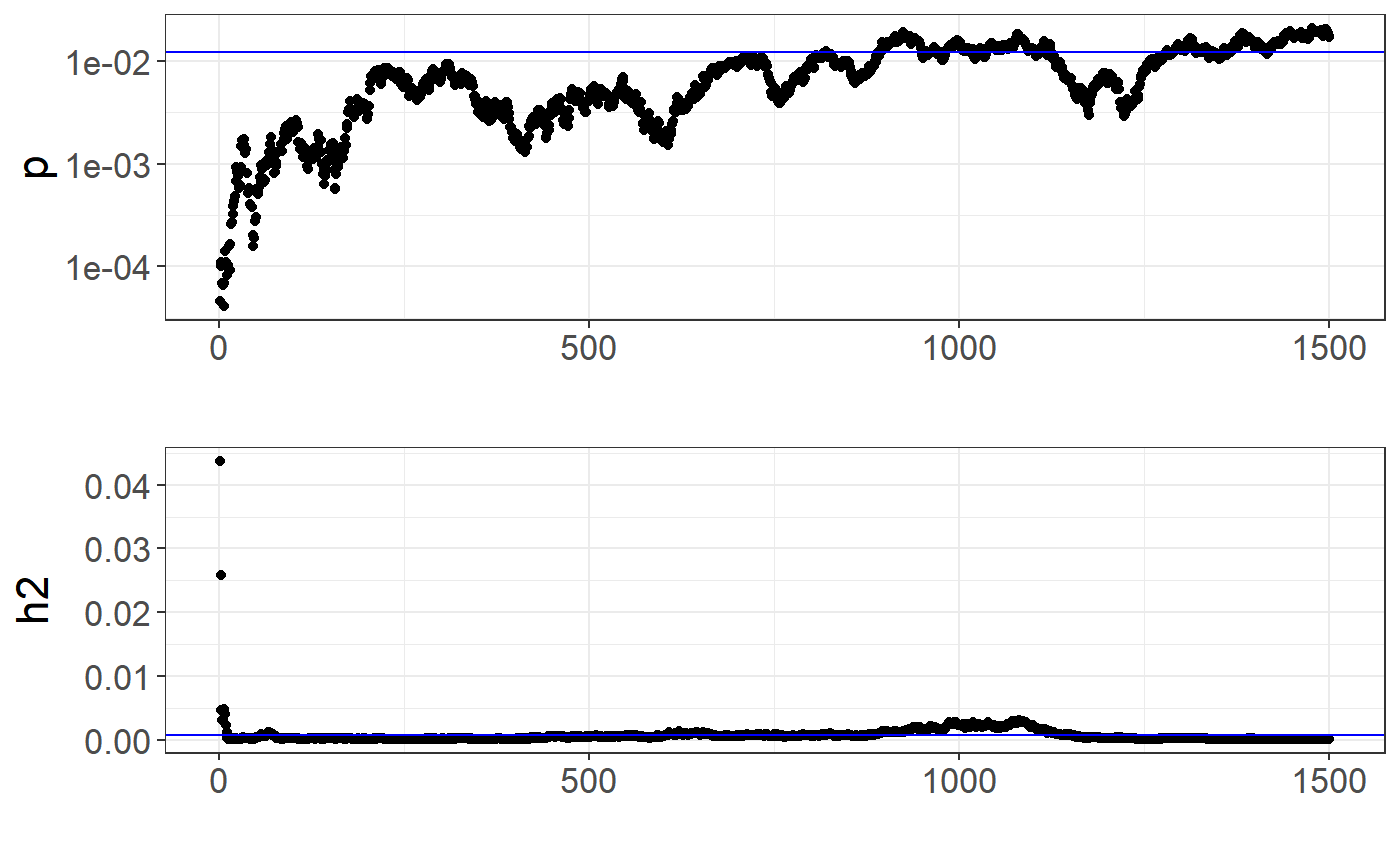
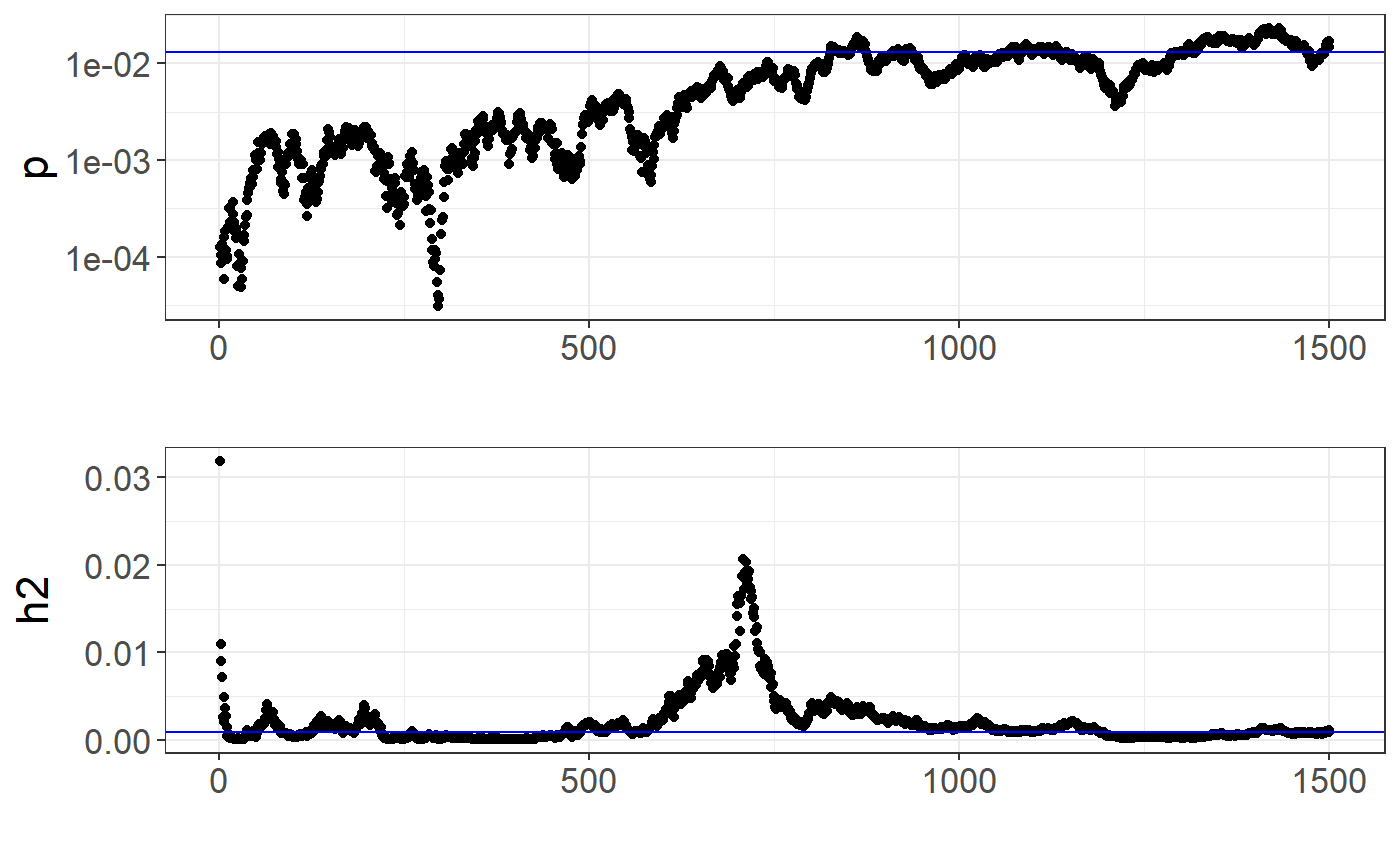
slighly update LDpred2 vignette

diff --git a/docs/articles/LDpred2.html b/docs/articles/LDpred2.html
@@ -31,7 +31,7 @@
       </button>
       <span class="navbar-brand">
         <a class="navbar-link" href="../index.html">bigsnpr</a>
-        <span class="version label label-default" data-toggle="tooltip" data-placement="bottom" title="Released version">1.6.4</span>
+        <span class="version label label-default" data-toggle="tooltip" data-placement="bottom" title="Released version">1.7.0</span>
       </span>
     </div>
 
@@ -155,7 +155,7 @@
 <span class="co"># See how the file looks like</span>
 <span class="fu"><a href="https://rdrr.io/r/utils/str.html">str</a></span><span class="op">(</span><span class="va">obj.bigSNP</span>, max.level <span class="op">=</span> <span class="fl">2</span>, strict.width <span class="op">=</span> <span class="st">"cut"</span><span class="op">)</span></pre></div>
 <pre><code>## List of 3
-##  $ genotypes:Reference class 'FBM.code256' [package "bigstatsr"] with 15 ..
+##  $ genotypes:Reference class 'FBM.code256' [package "bigstatsr"] with 16 ..
 ##   ..and 26 methods, of which 12 are  possibly relevant:
 ##   ..  add_columns, as.FBM, bm, bm.desc, check_dimensions,
 ##   ..  check_write_permissions, copy#envRefClass, initialize,
@@ -241,21 +241,18 @@
 <div class="sourceCode" id="cb23"><pre class="downlit">
 <span class="co">## indices in G</span>
 <span class="va">ind.chr2</span> <span class="op">&lt;-</span> <span class="va">info_snp</span><span class="op">$</span><span class="va">`_NUM_ID_`</span><span class="op">[</span><span class="va">ind.chr</span><span class="op">]</span>    
-<span class="va">corr0</span> <span class="op">&lt;-</span> <span class="fu"><a href="../reference/snp_cor.html">snp_cor</a></span><span class="op">(</span><span class="va">G</span>, ind.col <span class="op">=</span> <span class="va">ind.chr2</span>, ncores <span class="op">=</span> <span class="va">NCORES</span>, 
-                 infos.pos <span class="op">=</span> <span class="va">POS2</span><span class="op">[</span><span class="va">ind.chr2</span><span class="op">]</span>, size <span class="op">=</span> <span class="fl">3</span> <span class="op">/</span> <span class="fl">1000</span><span class="op">)</span></pre></div>
+<span class="va">corr0</span> <span class="op">&lt;-</span> <span class="fu">runonce</span><span class="fu">::</span><span class="fu"><a href="https://rdrr.io/pkg/runonce/man/save_run.html">save_run</a></span><span class="op">(</span>
+  <span class="fu"><a href="../reference/snp_cor.html">snp_cor</a></span><span class="op">(</span><span class="va">G</span>, ind.col <span class="op">=</span> <span class="va">ind.chr2</span>, ncores <span class="op">=</span> <span class="va">NCORES</span>, 
+          infos.pos <span class="op">=</span> <span class="va">POS2</span><span class="op">[</span><span class="va">ind.chr2</span><span class="op">]</span>, size <span class="op">=</span> <span class="fl">3</span> <span class="op">/</span> <span class="fl">1000</span><span class="op">)</span>,
+  file <span class="op">=</span> <span class="st">"tmp-data/corr_ldpred2_tutorial.rds"</span><span class="op">)</span></pre></div>
 <div class="sourceCode" id="cb24"><pre class="downlit">
 <span class="va">tmp</span> <span class="op">&lt;-</span> <span class="fu"><a href="https://rdrr.io/r/base/tempfile.html">tempfile</a></span><span class="op">(</span>tmpdir <span class="op">=</span> <span class="st">"tmp-data"</span><span class="op">)</span>
-<span class="kw">if</span> <span class="op">(</span><span class="fu"><a href="https://rdrr.io/r/utils/packageDescription.html">packageVersion</a></span><span class="op">(</span><span class="st">"bigsnpr"</span><span class="op">)</span> <span class="op">&gt;=</span> <span class="fu"><a href="https://rdrr.io/r/base/numeric_version.html">package_version</a></span><span class="op">(</span><span class="st">"1.4.9"</span><span class="op">)</span> <span class="op">&amp;&amp;</span>
-    <span class="fu"><a href="https://rdrr.io/r/utils/packageDescription.html">packageVersion</a></span><span class="op">(</span><span class="st">"bigsparser"</span><span class="op">)</span> <span class="op">&gt;=</span> <span class="fu"><a href="https://rdrr.io/r/base/numeric_version.html">package_version</a></span><span class="op">(</span><span class="st">"0.4.0"</span><span class="op">)</span><span class="op">)</span> <span class="op">{</span>
-  <span class="va">corr</span> <span class="op">&lt;-</span> <span class="fu"><a href="https://rdrr.io/pkg/bigsparser/man/SFBM-class.html">as_SFBM</a></span><span class="op">(</span><span class="va">corr0</span>, <span class="va">tmp</span><span class="op">)</span>
-<span class="op">}</span> <span class="kw">else</span> <span class="op">{</span>
-  <span class="va">corr</span> <span class="op">&lt;-</span> <span class="fu">bigsparser</span><span class="fu">::</span><span class="fu"><a href="https://rdrr.io/pkg/bigsparser/man/SFBM-class.html">as_SFBM</a></span><span class="op">(</span><span class="fu">as</span><span class="op">(</span><span class="va">corr0</span>, <span class="st">"dgCMatrix"</span><span class="op">)</span>, <span class="va">tmp</span><span class="op">)</span>
-<span class="op">}</span></pre></div>
+<span class="va">corr</span> <span class="op">&lt;-</span> <span class="fu">bigsparser</span><span class="fu">::</span><span class="fu"><a href="https://rdrr.io/pkg/bigsparser/man/SFBM-class.html">as_SFBM</a></span><span class="op">(</span><span class="fu">as</span><span class="op">(</span><span class="va">corr0</span>, <span class="st">"dgCMatrix"</span><span class="op">)</span>, <span class="va">tmp</span><span class="op">)</span></pre></div>
 <p>Here, we have built the LD matrix using variants from one chromosome only. In practice, you need to build it for variants from all chromosomes. Please look at the code linked at the beginning.</p>
 </div>
-<div id="infinitesimal-model" class="section level3">
+<div id="ldpred2-inf-infinitesimal-model" class="section level3">
 <h3 class="hasAnchor">
-<a href="#infinitesimal-model" class="anchor"></a>Infinitesimal model</h3>
+<a href="#ldpred2-inf-infinitesimal-model" class="anchor"></a>LDpred2-inf: infinitesimal model</h3>
 <div class="sourceCode" id="cb25"><pre class="downlit">
 <span class="op">(</span><span class="va">ldsc</span> <span class="op">&lt;-</span> <span class="fu"><a href="../reference/snp_ldsc.html">snp_ldsc2</a></span><span class="op">(</span><span class="va">corr0</span>, <span class="va">df_beta</span><span class="op">)</span><span class="op">)</span></pre></div>
 <pre><code>##       int        h2 
@@ -270,9 +267,9 @@
 <pre><code>##       Mean       2.5%      97.5%         Sd 
 ## 0.66347145 0.56739110 0.75341191 0.04784474</code></pre>
 </div>
-<div id="grid-of-models" class="section level3">
+<div id="ldpred2-grid-grid-of-models" class="section level3">
 <h3 class="hasAnchor">
-<a href="#grid-of-models" class="anchor"></a>Grid of models</h3>
+<a href="#ldpred2-grid-grid-of-models" class="anchor"></a>LDpred2(-grid): grid of models</h3>
 <p>In practice, we recommend to test multiple values for h2 and p. </p>
 <div class="sourceCode" id="cb31"><pre class="downlit">
 <span class="op">(</span><span class="va">h2_seq</span> <span class="op">&lt;-</span> <span class="fu"><a href="https://rdrr.io/r/base/Round.html">round</a></span><span class="op">(</span><span class="va">h2_est</span> <span class="op">*</span> <span class="fu"><a href="https://rdrr.io/r/base/c.html">c</a></span><span class="op">(</span><span class="fl">0.7</span>, <span class="fl">1</span>, <span class="fl">1.4</span><span class="op">)</span>, <span class="fl">4</span><span class="op">)</span><span class="op">)</span></pre></div>
@@ -284,109 +281,18 @@
 ## [17] 1.00000</code></pre>
 <div class="sourceCode" id="cb35"><pre class="downlit">
 <span class="op">(</span><span class="va">params</span> <span class="op">&lt;-</span> <span class="fu"><a href="https://rdrr.io/r/base/expand.grid.html">expand.grid</a></span><span class="op">(</span>p <span class="op">=</span> <span class="va">p_seq</span>, h2 <span class="op">=</span> <span class="va">h2_seq</span>, sparse <span class="op">=</span> <span class="fu"><a href="https://rdrr.io/r/base/c.html">c</a></span><span class="op">(</span><span class="cn">FALSE</span>, <span class="cn">TRUE</span><span class="op">)</span><span class="op">)</span><span class="op">)</span></pre></div>
-<pre><code>##           p     h2 sparse
-## 1   0.00010 0.0802  FALSE
-## 2   0.00018 0.0802  FALSE
-## 3   0.00032 0.0802  FALSE
-## 4   0.00056 0.0802  FALSE
-## 5   0.00100 0.0802  FALSE
-## 6   0.00180 0.0802  FALSE
-## 7   0.00320 0.0802  FALSE
-## 8   0.00560 0.0802  FALSE
-## 9   0.01000 0.0802  FALSE
-## 10  0.01800 0.0802  FALSE
-## 11  0.03200 0.0802  FALSE
-## 12  0.05600 0.0802  FALSE
-## 13  0.10000 0.0802  FALSE
-## 14  0.18000 0.0802  FALSE
-## 15  0.32000 0.0802  FALSE
-## 16  0.56000 0.0802  FALSE
-## 17  1.00000 0.0802  FALSE
-## 18  0.00010 0.1146  FALSE
-## 19  0.00018 0.1146  FALSE
-## 20  0.00032 0.1146  FALSE
-## 21  0.00056 0.1146  FALSE
-## 22  0.00100 0.1146  FALSE
-## 23  0.00180 0.1146  FALSE
-## 24  0.00320 0.1146  FALSE
-## 25  0.00560 0.1146  FALSE
-## 26  0.01000 0.1146  FALSE
-## 27  0.01800 0.1146  FALSE
-## 28  0.03200 0.1146  FALSE
-## 29  0.05600 0.1146  FALSE
-## 30  0.10000 0.1146  FALSE
-## 31  0.18000 0.1146  FALSE
-## 32  0.32000 0.1146  FALSE
-## 33  0.56000 0.1146  FALSE
-## 34  1.00000 0.1146  FALSE
-## 35  0.00010 0.1605  FALSE
-## 36  0.00018 0.1605  FALSE
-## 37  0.00032 0.1605  FALSE
-## 38  0.00056 0.1605  FALSE
-## 39  0.00100 0.1605  FALSE
-## 40  0.00180 0.1605  FALSE
-## 41  0.00320 0.1605  FALSE
-## 42  0.00560 0.1605  FALSE
-## 43  0.01000 0.1605  FALSE
-## 44  0.01800 0.1605  FALSE
-## 45  0.03200 0.1605  FALSE
-## 46  0.05600 0.1605  FALSE
-## 47  0.10000 0.1605  FALSE
-## 48  0.18000 0.1605  FALSE
-## 49  0.32000 0.1605  FALSE
-## 50  0.56000 0.1605  FALSE
-## 51  1.00000 0.1605  FALSE
-## 52  0.00010 0.0802   TRUE
-## 53  0.00018 0.0802   TRUE
-## 54  0.00032 0.0802   TRUE
-## 55  0.00056 0.0802   TRUE
-## 56  0.00100 0.0802   TRUE
-## 57  0.00180 0.0802   TRUE
-## 58  0.00320 0.0802   TRUE
-## 59  0.00560 0.0802   TRUE
-## 60  0.01000 0.0802   TRUE
-## 61  0.01800 0.0802   TRUE
-## 62  0.03200 0.0802   TRUE
-## 63  0.05600 0.0802   TRUE
-## 64  0.10000 0.0802   TRUE
-## 65  0.18000 0.0802   TRUE
-## 66  0.32000 0.0802   TRUE
-## 67  0.56000 0.0802   TRUE
-## 68  1.00000 0.0802   TRUE
-## 69  0.00010 0.1146   TRUE
-## 70  0.00018 0.1146   TRUE
-## 71  0.00032 0.1146   TRUE
-## 72  0.00056 0.1146   TRUE
-## 73  0.00100 0.1146   TRUE
-## 74  0.00180 0.1146   TRUE
-## 75  0.00320 0.1146   TRUE
-## 76  0.00560 0.1146   TRUE
-## 77  0.01000 0.1146   TRUE
-## 78  0.01800 0.1146   TRUE
-## 79  0.03200 0.1146   TRUE
-## 80  0.05600 0.1146   TRUE
-## 81  0.10000 0.1146   TRUE
-## 82  0.18000 0.1146   TRUE
-## 83  0.32000 0.1146   TRUE
-## 84  0.56000 0.1146   TRUE
-## 85  1.00000 0.1146   TRUE
-## 86  0.00010 0.1605   TRUE
-## 87  0.00018 0.1605   TRUE
-## 88  0.00032 0.1605   TRUE
-## 89  0.00056 0.1605   TRUE
-## 90  0.00100 0.1605   TRUE
-## 91  0.00180 0.1605   TRUE
-## 92  0.00320 0.1605   TRUE
-## 93  0.00560 0.1605   TRUE
-## 94  0.01000 0.1605   TRUE
-## 95  0.01800 0.1605   TRUE
-## 96  0.03200 0.1605   TRUE
-## 97  0.05600 0.1605   TRUE
-## 98  0.10000 0.1605   TRUE
-## 99  0.18000 0.1605   TRUE
-## 100 0.32000 0.1605   TRUE
-## 101 0.56000 0.1605   TRUE
-## 102 1.00000 0.1605   TRUE</code></pre>
+<pre><code>##          p     h2 sparse
+## 1  0.00010 0.0802  FALSE
+## 2  0.00018 0.0802  FALSE
+## 3  0.00032 0.0802  FALSE
+## 4  0.00056 0.0802  FALSE
+## 5  0.00100 0.0802  FALSE
+## 6  0.00180 0.0802  FALSE
+## 7  0.00320 0.0802  FALSE
+## 8  0.00560 0.0802  FALSE
+## 9  0.01000 0.0802  FALSE
+## 10 0.01800 0.0802  FALSE
+##  [ reached 'max' / getOption("max.print") -- omitted 92 rows ]</code></pre>
 <div class="sourceCode" id="cb37"><pre class="downlit">
 <span class="co"># takes several minutes if you do not have many cores</span>
 <span class="va">beta_grid</span> <span class="op">&lt;-</span> <span class="fu"><a href="../reference/snp_ldpred2_inf.html">snp_ldpred2_grid</a></span><span class="op">(</span><span class="va">corr</span>, <span class="va">df_beta</span>, <span class="va">params</span>, ncores <span class="op">=</span> <span class="va">NCORES</span><span class="op">)</span></pre></div>
@@ -394,9 +300,7 @@
 <span class="va">pred_grid</span> <span class="op">&lt;-</span> <span class="fu">big_prodMat</span><span class="op">(</span><span class="va">G</span>, <span class="va">beta_grid</span>, ind.col <span class="op">=</span> <span class="va">ind.chr2</span><span class="op">)</span>
 <span class="va">params</span><span class="op">$</span><span class="va">score</span> <span class="op">&lt;-</span> <span class="fu">big_univLogReg</span><span class="op">(</span><span class="fu">as_FBM</span><span class="op">(</span><span class="va">pred_grid</span><span class="op">[</span><span class="va">ind.val</span>, <span class="op">]</span><span class="op">)</span>, <span class="va">y</span><span class="op">[</span><span class="va">ind.val</span><span class="op">]</span><span class="op">)</span><span class="op">$</span><span class="va">score</span></pre></div>
 <div class="sourceCode" id="cb39"><pre class="downlit">
-<span class="kw"><a href="https://rdrr.io/r/base/library.html">library</a></span><span class="op">(</span><span class="va"><a href="http://ggplot2.tidyverse.org">ggplot2</a></span><span class="op">)</span></pre></div>
-<pre><code>## Warning: package 'ggplot2' was built under R version 3.6.3</code></pre>
-<div class="sourceCode" id="cb41"><pre class="downlit">
+<span class="kw"><a href="https://rdrr.io/r/base/library.html">library</a></span><span class="op">(</span><span class="va"><a href="https://ggplot2.tidyverse.org">ggplot2</a></span><span class="op">)</span>
 <span class="fu"><a href="https://ggplot2.tidyverse.org/reference/ggplot.html">ggplot</a></span><span class="op">(</span><span class="va">params</span>, <span class="fu"><a href="https://ggplot2.tidyverse.org/reference/aes.html">aes</a></span><span class="op">(</span>x <span class="op">=</span> <span class="va">p</span>, y <span class="op">=</span> <span class="va">score</span>, color <span class="op">=</span> <span class="fu"><a href="https://rdrr.io/r/base/factor.html">as.factor</a></span><span class="op">(</span><span class="va">h2</span><span class="op">)</span><span class="op">)</span><span class="op">)</span> <span class="op">+</span>
   <span class="fu">theme_bigstatsr</span><span class="op">(</span><span class="op">)</span> <span class="op">+</span>
   <span class="fu"><a href="https://ggplot2.tidyverse.org/reference/geom_point.html">geom_point</a></span><span class="op">(</span><span class="op">)</span> <span class="op">+</span>
@@ -406,29 +310,23 @@
   <span class="fu"><a href="https://ggplot2.tidyverse.org/reference/labs.html">labs</a></span><span class="op">(</span>y <span class="op">=</span> <span class="st">"GLM Z-Score"</span>, color <span class="op">=</span> <span class="st">"h2"</span><span class="op">)</span> <span class="op">+</span>
   <span class="fu"><a href="https://ggplot2.tidyverse.org/reference/theme.html">theme</a></span><span class="op">(</span>legend.position <span class="op">=</span> <span class="st">"top"</span>, panel.spacing <span class="op">=</span> <span class="fu"><a href="https://rdrr.io/r/grid/unit.html">unit</a></span><span class="op">(</span><span class="fl">1</span>, <span class="st">"lines"</span><span class="op">)</span><span class="op">)</span></pre></div>
 <p><img src="LDpred2_files/figure-html/unnamed-chunk-18-1.png" width="90%" style="display: block; margin: auto;"></p>
-<div class="sourceCode" id="cb42"><pre class="downlit">
-<span class="kw"><a href="https://rdrr.io/r/base/library.html">library</a></span><span class="op">(</span><span class="va"><a href="https://dplyr.tidyverse.org">dplyr</a></span><span class="op">)</span></pre></div>
-<pre><code>## Warning: package 'dplyr' was built under R version 3.6.3</code></pre>
-<div class="sourceCode" id="cb44"><pre class="downlit">
+<div class="sourceCode" id="cb40"><pre class="downlit">
+<span class="kw"><a href="https://rdrr.io/r/base/library.html">library</a></span><span class="op">(</span><span class="va"><a href="https://dplyr.tidyverse.org">dplyr</a></span><span class="op">)</span>
 <span class="va">params</span> <span class="op">%&gt;%</span>
   <span class="fu"><a href="https://dplyr.tidyverse.org/reference/mutate.html">mutate</a></span><span class="op">(</span>sparsity <span class="op">=</span> <span class="fu"><a href="https://rdrr.io/r/base/colSums.html">colMeans</a></span><span class="op">(</span><span class="va">beta_grid</span> <span class="op">==</span> <span class="fl">0</span><span class="op">)</span>, id <span class="op">=</span> <span class="fu"><a href="https://dplyr.tidyverse.org/reference/ranking.html">row_number</a></span><span class="op">(</span><span class="op">)</span><span class="op">)</span> <span class="op">%&gt;%</span>
   <span class="fu"><a href="https://dplyr.tidyverse.org/reference/arrange.html">arrange</a></span><span class="op">(</span><span class="fu"><a href="https://dplyr.tidyverse.org/reference/desc.html">desc</a></span><span class="op">(</span><span class="va">score</span><span class="op">)</span><span class="op">)</span> <span class="op">%&gt;%</span>
   <span class="fu"><a href="https://dplyr.tidyverse.org/reference/mutate_all.html">mutate_at</a></span><span class="op">(</span><span class="fu"><a href="https://rdrr.io/r/base/c.html">c</a></span><span class="op">(</span><span class="st">"score"</span>, <span class="st">"sparsity"</span><span class="op">)</span>, <span class="va">round</span>, digits <span class="op">=</span> <span class="fl">3</span><span class="op">)</span> <span class="op">%&gt;%</span>
   <span class="fu"><a href="https://dplyr.tidyverse.org/reference/slice.html">slice</a></span><span class="op">(</span><span class="fl">1</span><span class="op">:</span><span class="fl">10</span><span class="op">)</span></pre></div>
-<pre><code>##         p     h2 sparse score sparsity  id
-## 1  0.0032 0.1146   TRUE 4.366    0.569  75
-## 2  0.0018 0.1605  FALSE 4.363    0.000  40
-## 3  0.0032 0.1605   TRUE 4.363    0.549  92
-## 4  0.3200 0.1146   TRUE 4.358    0.576  83
-## 5  0.1000 0.1605   TRUE 4.357    0.555  98
-## 6  0.3200 0.1605   TRUE 4.355    0.558 100
-## 7  0.0018 0.1146   TRUE 4.354    0.577  74
-## 8  0.0032 0.0802   TRUE 4.353    0.584  58
-## 9  0.0018 0.0802   TRUE 4.352    0.583  57
-## 10 0.1000 0.1146   TRUE 4.352    0.571  81</code></pre>
+<pre><code>##        p     h2 sparse score sparsity id
+## 1 0.0032 0.1146   TRUE 4.366    0.569 75
+## 2 0.0018 0.1605  FALSE 4.363    0.000 40
+## 3 0.0032 0.1605   TRUE 4.363    0.549 92
+## 4 0.3200 0.1146   TRUE 4.358    0.576 83
+## 5 0.1000 0.1605   TRUE 4.357    0.555 98
+##  [ reached 'max' / getOption("max.print") -- omitted 5 rows ]</code></pre>
 <p>You can then choose the best model according to your preferred criterion (e.g. max AUC). Here, we use the Z-Score from the regression of the phenotype by the PRS since we have found it more robust than using the AUC. It also enables adjusting for covariates in this step (using parameter <code>covar.train</code> in <code>big_univLogReg()</code> or <code>big_univLinReg()</code>).</p>
 <p>Also note that we separate both sparse and non-sparse models here (and in the paper) to show that their predictive performance are similar. In practice, if you do not really care about sparsity, you could choose the best LDpred2-grid model among all sparse and non-sparse models.</p>
-<div class="sourceCode" id="cb46"><pre class="downlit">
+<div class="sourceCode" id="cb42"><pre class="downlit">
 <span class="va">best_grid_nosp</span> <span class="op">&lt;-</span> <span class="va">params</span> <span class="op">%&gt;%</span>
   <span class="fu"><a href="https://dplyr.tidyverse.org/reference/mutate.html">mutate</a></span><span class="op">(</span>id <span class="op">=</span> <span class="fu"><a href="https://dplyr.tidyverse.org/reference/ranking.html">row_number</a></span><span class="op">(</span><span class="op">)</span><span class="op">)</span> <span class="op">%&gt;%</span>
   <span class="fu"><a href="https://dplyr.tidyverse.org/reference/filter.html">filter</a></span><span class="op">(</span><span class="op">!</span><span class="va">sparse</span><span class="op">)</span> <span class="op">%&gt;%</span> 
@@ -441,7 +339,7 @@
 <span class="fu">AUCBoot</span><span class="op">(</span><span class="va">pred_nosp</span>, <span class="va">y</span><span class="op">[</span><span class="va">ind.test</span><span class="op">]</span><span class="op">)</span></pre></div>
 <pre><code>##      Mean      2.5%     97.5%        Sd 
 ## 0.6720025 0.5747335 0.7652376 0.0489906</code></pre>
-<div class="sourceCode" id="cb48"><pre class="downlit">
+<div class="sourceCode" id="cb44"><pre class="downlit">
 <span class="va">best_grid_sp</span> <span class="op">&lt;-</span> <span class="va">params</span> <span class="op">%&gt;%</span>
   <span class="fu"><a href="https://dplyr.tidyverse.org/reference/mutate.html">mutate</a></span><span class="op">(</span>id <span class="op">=</span> <span class="fu"><a href="https://dplyr.tidyverse.org/reference/ranking.html">row_number</a></span><span class="op">(</span><span class="op">)</span><span class="op">)</span> <span class="op">%&gt;%</span>
   <span class="fu"><a href="https://dplyr.tidyverse.org/reference/filter.html">filter</a></span><span class="op">(</span><span class="va">sparse</span><span class="op">)</span> <span class="op">%&gt;%</span> 
@@ -455,56 +353,60 @@
 <pre><code>##      Mean      2.5%     97.5%        Sd 
 ## 0.6705315 0.5711805 0.7638674 0.0488126</code></pre>
 </div>
-<div id="automatic-model" class="section level3">
+<div id="ldpred2-auto-automatic-model" class="section level3">
 <h3 class="hasAnchor">
-<a href="#automatic-model" class="anchor"></a>Automatic model</h3>
+<a href="#ldpred2-auto-automatic-model" class="anchor"></a>LDpred2-auto: automatic model</h3>
 <p>We recommend to run many of them in parallel with different initial values for <code>p</code> (e.g. <code>length.out = 30</code>).</p>
-<div class="sourceCode" id="cb50"><pre class="downlit">
+<div class="sourceCode" id="cb46"><pre class="downlit">
 <span class="co"># takes a few minutes</span>
 <span class="va">multi_auto</span> <span class="op">&lt;-</span> <span class="fu"><a href="../reference/snp_ldpred2_inf.html">snp_ldpred2_auto</a></span><span class="op">(</span><span class="va">corr</span>, <span class="va">df_beta</span>, h2_init <span class="op">=</span> <span class="va">h2_est</span>,
-                               vec_p_init <span class="op">=</span> <span class="fu"><a href="../reference/seq_log.html">seq_log</a></span><span class="op">(</span><span class="fl">1e-4</span>, <span class="fl">0.9</span>, length.out <span class="op">=</span> <span class="va">NCORES</span><span class="op">)</span>,
+                               vec_p_init <span class="op">=</span> <span class="fu"><a href="../reference/seq_log.html">seq_log</a></span><span class="op">(</span><span class="fl">1e-4</span>, <span class="fl">0.5</span>, length.out <span class="op">=</span> <span class="va">NCORES</span><span class="op">)</span>,
                                ncores <span class="op">=</span> <span class="va">NCORES</span><span class="op">)</span>
 <span class="fu"><a href="https://rdrr.io/r/utils/str.html">str</a></span><span class="op">(</span><span class="va">multi_auto</span><span class="op">)</span></pre></div>
 <pre><code>## List of 4
-##  $ :List of 8
-##   ..$ beta_est   : num [1:52546] -4.49e-07 2.69e-07 -2.05e-06 -3.36e-06 -3.01e-06 ...
-##   ..$ postp_est  : num [1:52546] 0.0121 0.0121 0.0121 0.0121 0.0121 ...
-##   ..$ p_est      : num 0.0121
-##   ..$ h2_est     : num 0.000714
-##   ..$ path_p_est : num [1:1500] 4.62e-05 1.10e-04 1.01e-04 6.85e-05 6.67e-05 ...
-##   ..$ path_h2_est: num [1:1500] 0.04379 0.02589 0.00457 0.00314 0.00307 ...
+##  $ :List of 9
+##   ..$ beta_est   : num [1:52546] -5.51e-07 3.35e-07 -2.52e-06 -4.13e-06 -3.70e-06 ...
+##   ..$ postp_est  : num [1:52546] 0.0129 0.0129 0.013 0.013 0.013 ...
+##   ..$ sample_beta: num[1:52546, 0 ] 
+##   ..$ p_est      : num 0.013
+##   ..$ h2_est     : num 0.000881
+##   ..$ path_p_est : num [1:1500] 1.26e-04 8.66e-05 1.04e-04 1.36e-04 1.04e-04 ...
+##   ..$ path_h2_est: num [1:1500] 0.03192 0.01093 0.00906 0.00713 0.00255 ...
 ##   ..$ h2_init    : num 0.115
 ##   ..$ p_init     : num 1e-04
-##  $ :List of 8
-##   ..$ beta_est   : num [1:52546] -1.58e-07 9.53e-08 -7.24e-07 -1.19e-06 -1.06e-06 ...
-##   ..$ postp_est  : num [1:52546] 0.00148 0.00148 0.00148 0.00148 0.00148 ...
-##   ..$ p_est      : num 0.00149
-##   ..$ h2_est     : num 0.000253
-##   ..$ path_p_est : num [1:1500] 0.00185 0.00202 0.00165 0.00142 0.00159 ...
-##   ..$ path_h2_est: num [1:1500] 0.13 0.16 0.122 0.138 0.16 ...
+##  $ :List of 9
+##   ..$ beta_est   : num [1:52546] -1.86e-07 1.12e-07 -8.50e-07 -1.39e-06 -1.25e-06 ...
+##   ..$ postp_est  : num [1:52546] 0.0122 0.0122 0.0122 0.0122 0.0122 ...
+##   ..$ sample_beta: num[1:52546, 0 ] 
+##   ..$ p_est      : num 0.0122
+##   ..$ h2_est     : num 0.000297
+##   ..$ path_p_est : num [1:1500] 0.001662 0.001523 0.001168 0.000811 0.001023 ...
+##   ..$ path_h2_est: num [1:1500] 0.1107 0.0733 0.0344 0.0247 0.0287 ...
 ##   ..$ h2_init    : num 0.115
-##   ..$ p_init     : num 0.00208
-##  $ :List of 8
-##   ..$ beta_est   : num [1:52546] -2.33e-06 1.42e-06 -1.07e-05 -1.76e-05 -1.57e-05 ...
-##   ..$ postp_est  : num [1:52546] 0.029 0.029 0.029 0.0291 0.029 ...
-##   ..$ p_est      : num 0.029
-##   ..$ h2_est     : num 0.00374
-##   ..$ path_p_est : num [1:1500] 0.043 0.0428 0.0435 0.0425 0.0436 ...
-##   ..$ path_h2_est: num [1:1500] 0.1078 0.1038 0.0963 0.0929 0.0917 ...
+##   ..$ p_init     : num 0.00171
+##  $ :List of 9
+##   ..$ beta_est   : num [1:52546] -1.49e-07 8.99e-08 -6.80e-07 -1.11e-06 -9.99e-07 ...
+##   ..$ postp_est  : num [1:52546] 0.0235 0.0235 0.0235 0.0235 0.0235 ...
+##   ..$ sample_beta: num[1:52546, 0 ] 
+##   ..$ p_est      : num 0.0235
+##   ..$ h2_est     : num 0.000238
+##   ..$ path_p_est : num [1:1500] 0.0284 0.0288 0.0283 0.0283 0.0288 ...
+##   ..$ path_h2_est: num [1:1500] 0.112 0.116 0.111 0.112 0.109 ...
 ##   ..$ h2_init    : num 0.115
-##   ..$ p_init     : num 0.0433
-##  $ :List of 8
-##   ..$ beta_est   : num [1:52546] -3.73e-06 2.25e-06 -1.70e-05 -2.78e-05 -2.49e-05 ...
-##   ..$ postp_est  : num [1:52546] 0.849 0.849 0.849 0.849 0.849 ...
-##   ..$ p_est      : num 0.849
-##   ..$ h2_est     : num 0.00594
-##   ..$ path_p_est : num [1:1500] 0.902 0.902 0.903 0.904 0.903 ...
-##   ..$ path_h2_est: num [1:1500] 0.11 0.111 0.113 0.107 0.105 ...
+##   ..$ p_init     : num 0.0292
+##  $ :List of 9
+##   ..$ beta_est   : num [1:52546] -5.11e-06 3.16e-06 -2.33e-05 -3.83e-05 -3.43e-05 ...
+##   ..$ postp_est  : num [1:52546] 0.51 0.51 0.51 0.51 0.51 ...
+##   ..$ sample_beta: num[1:52546, 0 ] 
+##   ..$ p_est      : num 0.51
+##   ..$ h2_est     : num 0.0082
+##   ..$ path_p_est : num [1:1500] 0.496 0.493 0.497 0.5 0.497 ...
+##   ..$ path_h2_est: num [1:1500] 0.108 0.105 0.106 0.108 0.109 ...
 ##   ..$ h2_init    : num 0.115
-##   ..$ p_init     : num 0.9</code></pre>
+##   ..$ p_init     : num 0.5</code></pre>
 <p>You should verify if the chains “converged”. You can look at the path of the chains, as shown below. In the paper, we propose an automatic way to filter bad chains by comparing the scale of the resulting predictions (see <a href="https://github.com/privefl/paper-ldpred2/blob/master/code/run-ldpred2-gwide.R#L108-L112">this code</a>, reproduced below).</p>
 <p>This is not the case here, which is probably because the data is so small.</p>
-<div class="sourceCode" id="cb52"><pre class="downlit">
+<div class="sourceCode" id="cb48"><pre class="downlit">
 <span class="va">auto</span> <span class="op">&lt;-</span> <span class="va">multi_auto</span><span class="op">[[</span><span class="fl">1</span><span class="op">]</span><span class="op">]</span>
 <span class="fu">plot_grid</span><span class="op">(</span>
   <span class="fu"><a href="https://ggplot2.tidyverse.org/reference/qplot.html">qplot</a></span><span class="op">(</span>y <span class="op">=</span> <span class="va">auto</span><span class="op">$</span><span class="va">path_p_est</span><span class="op">)</span> <span class="op">+</span> 
@@ -519,24 +421,24 @@
   ncol <span class="op">=</span> <span class="fl">1</span>, align <span class="op">=</span> <span class="st">"hv"</span>
 <span class="op">)</span></pre></div>
 <p><img src="LDpred2_files/figure-html/unnamed-chunk-23-1.png" width="700" style="display: block; margin: auto;"></p>
-<div class="sourceCode" id="cb53"><pre class="downlit">
+<div class="sourceCode" id="cb49"><pre class="downlit">
 <span class="va">beta_auto</span> <span class="op">&lt;-</span> <span class="fu"><a href="https://rdrr.io/r/base/lapply.html">sapply</a></span><span class="op">(</span><span class="va">multi_auto</span>, <span class="kw">function</span><span class="op">(</span><span class="va">auto</span><span class="op">)</span> <span class="va">auto</span><span class="op">$</span><span class="va">beta_est</span><span class="op">)</span>
 <span class="va">pred_auto</span> <span class="op">&lt;-</span> <span class="fu">big_prodMat</span><span class="op">(</span><span class="va">G</span>, <span class="va">beta_auto</span>, ind.row <span class="op">=</span> <span class="va">ind.test</span>, ind.col <span class="op">=</span> <span class="va">ind.chr2</span><span class="op">)</span></pre></div>
-<div class="sourceCode" id="cb54"><pre class="downlit">
+<div class="sourceCode" id="cb50"><pre class="downlit">
 <span class="va">sc</span> <span class="op">&lt;-</span> <span class="fu"><a href="https://rdrr.io/r/base/apply.html">apply</a></span><span class="op">(</span><span class="va">pred_auto</span>, <span class="fl">2</span>, <span class="va">sd</span><span class="op">)</span>
 <span class="va">keep</span> <span class="op">&lt;-</span> <span class="fu"><a href="https://rdrr.io/r/base/MathFun.html">abs</a></span><span class="op">(</span><span class="va">sc</span> <span class="op">-</span> <span class="fu"><a href="https://rdrr.io/r/stats/median.html">median</a></span><span class="op">(</span><span class="va">sc</span><span class="op">)</span><span class="op">)</span> <span class="op">&lt;</span> <span class="fl">3</span> <span class="op">*</span> <span class="fu"><a href="https://rdrr.io/r/stats/mad.html">mad</a></span><span class="op">(</span><span class="va">sc</span><span class="op">)</span>
 <span class="va">final_beta_auto</span> <span class="op">&lt;-</span> <span class="fu"><a href="https://rdrr.io/r/base/colSums.html">rowMeans</a></span><span class="op">(</span><span class="va">beta_auto</span><span class="op">[</span>, <span class="va">keep</span><span class="op">]</span><span class="op">)</span>
 <span class="va">final_pred_auto</span> <span class="op">&lt;-</span> <span class="fu"><a href="https://rdrr.io/r/base/colSums.html">rowMeans</a></span><span class="op">(</span><span class="va">pred_auto</span><span class="op">[</span>, <span class="va">keep</span><span class="op">]</span><span class="op">)</span></pre></div>
-<div class="sourceCode" id="cb55"><pre class="downlit">
+<div class="sourceCode" id="cb51"><pre class="downlit">
 <span class="fu">AUCBoot</span><span class="op">(</span><span class="va">final_pred_auto</span>, <span class="va">y</span><span class="op">[</span><span class="va">ind.test</span><span class="op">]</span><span class="op">)</span></pre></div>
 <pre><code>##       Mean       2.5%      97.5%         Sd 
-## 0.66305608 0.56783428 0.75341981 0.04745915</code></pre>
-<div class="sourceCode" id="cb57"><pre class="downlit">
+## 0.66330593 0.56894186 0.75215811 0.04732721</code></pre>
+<div class="sourceCode" id="cb53"><pre class="downlit">
 <span class="co"># Some cleaning</span>
 <span class="fu"><a href="https://rdrr.io/r/base/rm.html">rm</a></span><span class="op">(</span><span class="va">corr</span><span class="op">)</span>; <span class="fu"><a href="https://rdrr.io/r/base/gc.html">gc</a></span><span class="op">(</span><span class="op">)</span>; <span class="fu"><a href="https://rdrr.io/r/base/files.html">file.remove</a></span><span class="op">(</span><span class="fu"><a href="https://rdrr.io/r/base/paste.html">paste0</a></span><span class="op">(</span><span class="va">tmp</span>, <span class="st">".sbk"</span><span class="op">)</span><span class="op">)</span></pre></div>
 <pre><code>##            used  (Mb) gc trigger   (Mb)  max used   (Mb)
-## Ncells  3364748 179.7    5694584  304.2   5694584  304.2
-## Vcells 81763259 623.9  199474124 1521.9 183437910 1399.6</code></pre>
+## Ncells  3394608 181.3    5715140  305.3   5715140  305.3
+## Vcells 81822509 624.3  228451425 1743.0 219837329 1677.3</code></pre>
 <pre><code>## [1] TRUE</code></pre>
 </div>
 </div>
